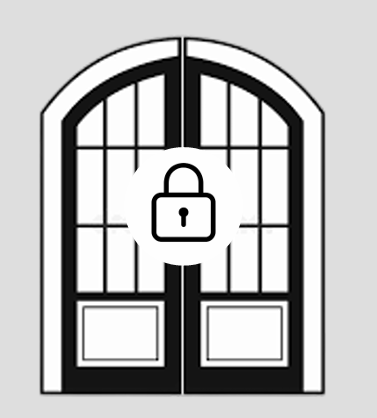
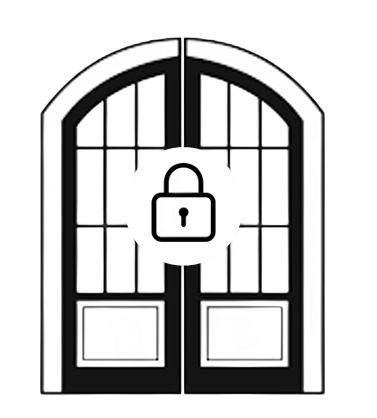
Made match progress a component for reusability

diff --git a/frontend/src/pages/ProgMatch.tsx b/frontend/src/pages/ProgMatch.tsx
@@ -1,16 +1,20 @@
-import React, { useState } from "react";
+import React, { useState, useEffect } from "react";
 import { Editor } from "@monaco-editor/react";
 import { Progress } from "@/components/ui/progress";
 import { Badge } from "@/components/ui/badge";
 import { useTimer } from "react-timer-hook";
 import { Question } from "@/components/question";
-import { Sidebar, SidebarProvider } from "@/components/ui/sidebar";
+import { Sidebar, SidebarContent, SidebarProvider } from "@/components/ui/sidebar";
 import blue_avatar from '../assets/blue_avatar.jpeg'
 import puprle_avatar from '../assets/purple_avatar.jpeg'
-import door from '../assets/door.png'
+
+import type { QuestionDTO, MatchDTO } from "src/types/question.dto";
+import { mock_questions } from "../mocks/prog-questions.mock";
+import { MatchProgress } from "@/components/match-progress";
 
 interface ProgMatchProps {
     language: string;
+    match: MatchDTO;
 }
 
 
@@ -38,6 +42,15 @@ const ProgMatch: React.FC<ProgMatchProps> = ({ language }) => {
     const { seconds, minutes } = useTimer({ expiryTimestamp: expiryTime() });
 
 
+    // questions
+    const [questions, set_questions] = useState<QuestionDTO[]>();
+
+    // initialise questions
+    useEffect(() => {
+        set_questions(mock_questions);
+    }, [])
+
+
     // Data sent to backend - NOT CONNECTED RIGHT NOW
 
     function submit() {
@@ -45,10 +58,10 @@ const ProgMatch: React.FC<ProgMatchProps> = ({ language }) => {
     }
 
     return (
-        <div className="fixed inset-0 flex flex-row p-2 justify-between">
-            <div className="flex flex-col w-[80%] m-2 justify-evenly">
+        <div className="fixed inset-0 flex flex-row p-2 ">
+            <div className="flex flex-col w-[80%] m-2 justify-between ">
                 {/* header */}
-                <div className="flex w-full h-[20%] justify-between items-center m-2 p-4">
+                <div className="flex w-full h-[20%] justify-between items-center m-1 p-2">
 
                     {/* Player 1 Progress */}
                     <div className="w-[40%] flex flex-col items-start h-[60%] justify-center self-end ">
@@ -95,7 +108,7 @@ const ProgMatch: React.FC<ProgMatchProps> = ({ language }) => {
                     question="What will be the output of this code?"
                 >
                     <Editor
-                        height="40vh"
+                        height="50vh"
                         width="110vh"
                         defaultLanguage={language}
                         defaultValue="// Your code here"
@@ -126,12 +139,8 @@ const ProgMatch: React.FC<ProgMatchProps> = ({ language }) => {
                     />
                 </Question>
             </div >
-            <div className="bg-white m-4">
-                <SidebarProvider>
-                    <Sidebar side='right'></Sidebar>
-                </SidebarProvider>
-
-            </div>
+           
+           <MatchProgress></MatchProgress>
 
         </div>
     )

diff --git a/frontend/@/components/match-progress.tsx b/frontend/@/components/match-progress.tsx
@@ -1,0 +1,33 @@
+ 
+import type { QuestionDTO, MatchDTO } from "src/types/question.dto";
+import door from '../../src/assets/door.png'
+import { Badge } from "./ui/badge";
+ 
+ function MatchProgress({
+    className,
+    size = "default",
+    children,
+    questions,
+    ...props
+}: React.ComponentProps<"div"> & {
+    size?: "default" | "sm",
+    children?: React.ReactNode,
+    questions: QuestionDTO[],
+}) {
+    return (
+        <div className="bg-white m-4 flex flex-row rounded-3xl w-[15%] h-[90%] m-auto">
+                <Badge className="bg-white badge-font shadow-badge " ></Badge>
+                <div className=""></div>
+                <div className="flex flex-col items-end justify-evenly">
+                    {questions?.map((q, id) => (
+                        <img key={id} src={door} className="w-[50%] " ></img>
+
+                    ))}
+                </div>
+            </div>
+    )
+}
+
+export {
+    MatchProgress
+}

diff --git a/frontend/src/types/question.dto.ts b/frontend/src/types/question.dto.ts
@@ -1,17 +1,17 @@
-class QuestionDTO {
-    id: string;
-    title: string;
-    description: string;
-    difficulty: 'easy' | 'medium' | 'hard';
-    language: string;
-
-    constructor(id: string, title: string, description: string, difficulty: 'easy' | 'medium' | 'hard', language: string) {
-        this.id = id;
-        this.title = title;
-        this.description = description;
-        this.difficulty = difficulty;
-        this.language = language;
-    }
+export interface QuestionDTO {
+    id: string
+    title: string
+    question:string
+    description?: string
+    difficulty: 'easy' | 'medium' | 'hard'
+    language: string
 }
 
-export default QuestionDTO;
+export interface MatchDTO{
+    id: string
+    player_1: string   //username
+    player_2: string
+    duration: number
+    questions: QuestionDTO[]
+
+}

diff --git a/frontend/src/mocks/prog-questions.mock.ts b/frontend/src/mocks/prog-questions.mock.ts
@@ -1,0 +1,20 @@
+
+import type { QuestionDTO} from "../types/question.dto";
+
+export const mock_questions: QuestionDTO[] = [
+    {
+        id:'1',
+        title:'Array Sum',
+        question: 'What will be the output of this code?',
+        description: `const arr = [1, 2, 3, 4, 5];const sum = arr.reduce((a, b) => a+b, 0);console.log(sum);`,
+        difficulty: 'medium',
+        language: 'Java',
+    },
+    {
+        id:'2',
+        title:'Reverse String',
+        question: 'Write a function to reverse a string.',
+        difficulty: 'medium',
+        language: 'Java'
+    }
+]

diff --git a/frontend/@/components/ui/sidebar.tsx b/frontend/@/components/ui/sidebar.tsx
@@ -137,7 +137,7 @@ function SidebarProvider({
           } as React.CSSProperties
         }
         className={cn(
-          "group/sidebar-wrapper flex h-[100%] w-full has-data-[variant=inset]:bg-sidebar",
+          "group/sidebar-wrapper flex h-[100%] w-full rounded-xl has-data-[variant=inset]:bg-sidebar",
           className
         )}
         {...props}
@@ -168,7 +168,7 @@ function Sidebar({
       <div
         data-slot="sidebar"
         className={cn(
-          "flex h-full w-(--sidebar-width) flex-col bg-sidebar text-sidebar-foreground",
+          "flex w-(--sidebar-width) flex-col bg-sidebar  text-sidebar-foreground",
           className
         )}
         {...props}
@@ -229,7 +229,7 @@ function Sidebar({
         data-slot="sidebar-container"
         data-side={side}
         className={cn(
-          "z-10 hidden h-[100%] w-(--sidebar-width) transition-[left,right,width] duration-200 ease-linear data-[side=left]:left-0 data-[side=left]:group-data-[collapsible=offcanvas]:left-[calc(var(--sidebar-width)*-1)] data-[side=right]:right-0 data-[side=right]:group-data-[collapsible=offcanvas]:right-[calc(var(--sidebar-width)*-1)] md:flex",
+          "z-10 hidden h-full w-(--sidebar-width) transition-[left,right,width] duration-200 ease-linear data-[side=left]:left-0 data-[side=left]:group-data-[collapsible=offcanvas]:left-[calc(var(--sidebar-width)*-1)] data-[side=right]:right-0 data-[side=right]:group-data-[collapsible=offcanvas]:right-[calc(var(--sidebar-width)*-1)] md:flex",
           // Adjust the padding for floating and inset variants.
           variant === "floating" || variant === "inset"
             ? "p-2 group-data-[collapsible=icon]:w-[calc(var(--sidebar-width-icon)+(--spacing(4))+2px)]"
@@ -241,7 +241,7 @@ function Sidebar({
         <div
           data-sidebar="sidebar"
           data-slot="sidebar-inner"
-          className="flex size-full flex-col bg-sidebar group-data-[variant=floating]:rounded-2xl group-data-[variant=floating]:shadow-sm group-data-[variant=floating]:ring-1 group-data-[variant=floating]:ring-sidebar-border"
+          className="flex size-full flex-col bg-sidebar rounded-xl overflow-hidden group-data-[variant=floating]:rounded-2xl group-data-[variant=floating]:shadow-sm group-data-[variant=floating]:ring-1 group-data-[variant=floating]:ring-sidebar-border"
         >
           {children}
         </div>
@@ -373,7 +373,7 @@ function SidebarContent({ className, ...props }: React.ComponentProps<"div">) {
       data-slot="sidebar-content"
       data-sidebar="content"
       className={cn(
-        "no-scrollbar flex min-h-0 flex-1 flex-col gap-2 overflow-auto [--radius:var(--radius-xl)] group-data-[collapsible=icon]:overflow-hidden",
+        "no-scrollbar flex min-h-0 flex-1 flex-col gap-2 rounded-xl overflow-hidden overflow-auto [--radius:var(--radius-xl)] group-data-[collapsible=icon]:overflow-hidden",
         className
       )}
       {...props}

diff --git a/frontend/src/styles/global.css b/frontend/src/styles/global.css
@@ -53,10 +53,13 @@
   --text-sm: var(--font-size-sm);
   --text-md: var(--font-size-md);
   --text-l: var(--font-size-l);
+
+  /* shadows */
+  --shadow-badge: var(--badge-shadow);
 }
 
 :root {
-  --background: #dbdde1;
+  --background: #eaebee;
   --text: #0000;
   --font: 'Inter', sans-serif;
   --badge-font-size: 0.1rem;
@@ -67,6 +70,7 @@
   --primary-text: #0f182a;
   --seconday-text: #64748b;
   --muted-text: #293c59;
+  --badge-shadow: 0 4px 6px rgba(0,0,0,0.3);
 
 }
 
@@ -78,4 +82,7 @@
     background-color: var(--background);
   }
 
+  .badge{
+    box-shadow: var(--badge-shadow);
+  }
 }